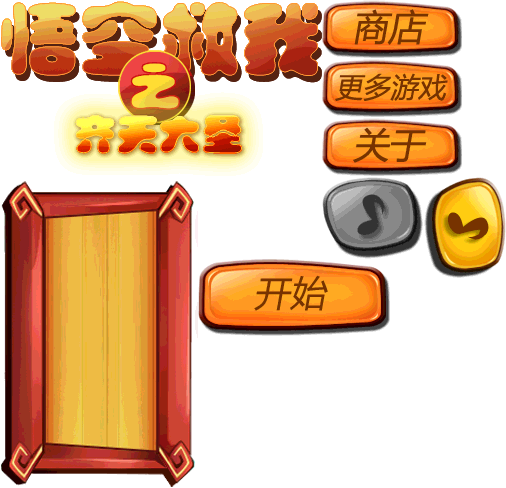
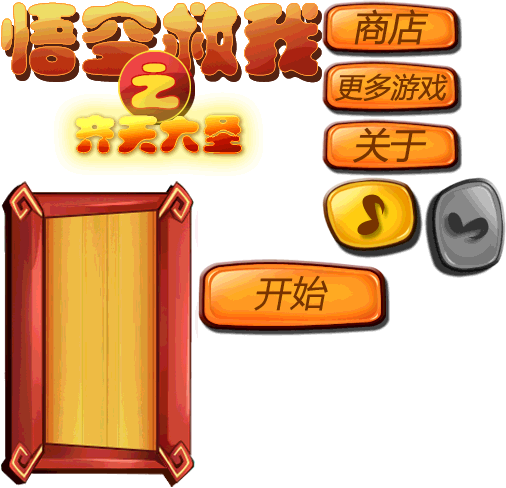
add btn function to the start scene

Changed region(s): [[0.6225, 0.3689, 0.83, 0.5225], [0.8597, 0.3689, 1.0, 0.5533]]

diff --git a/Classes/StartScene.h b/Classes/StartScene.h
@@ -16,6 +16,9 @@ public:
 	void btnCallback(CCObject*);
 	static CCScene* scene();
 
+private:
+	CCMenuItemSprite* soundOn;
+	CCMenuItemSprite* soundOff;
 };
 
 #endif
